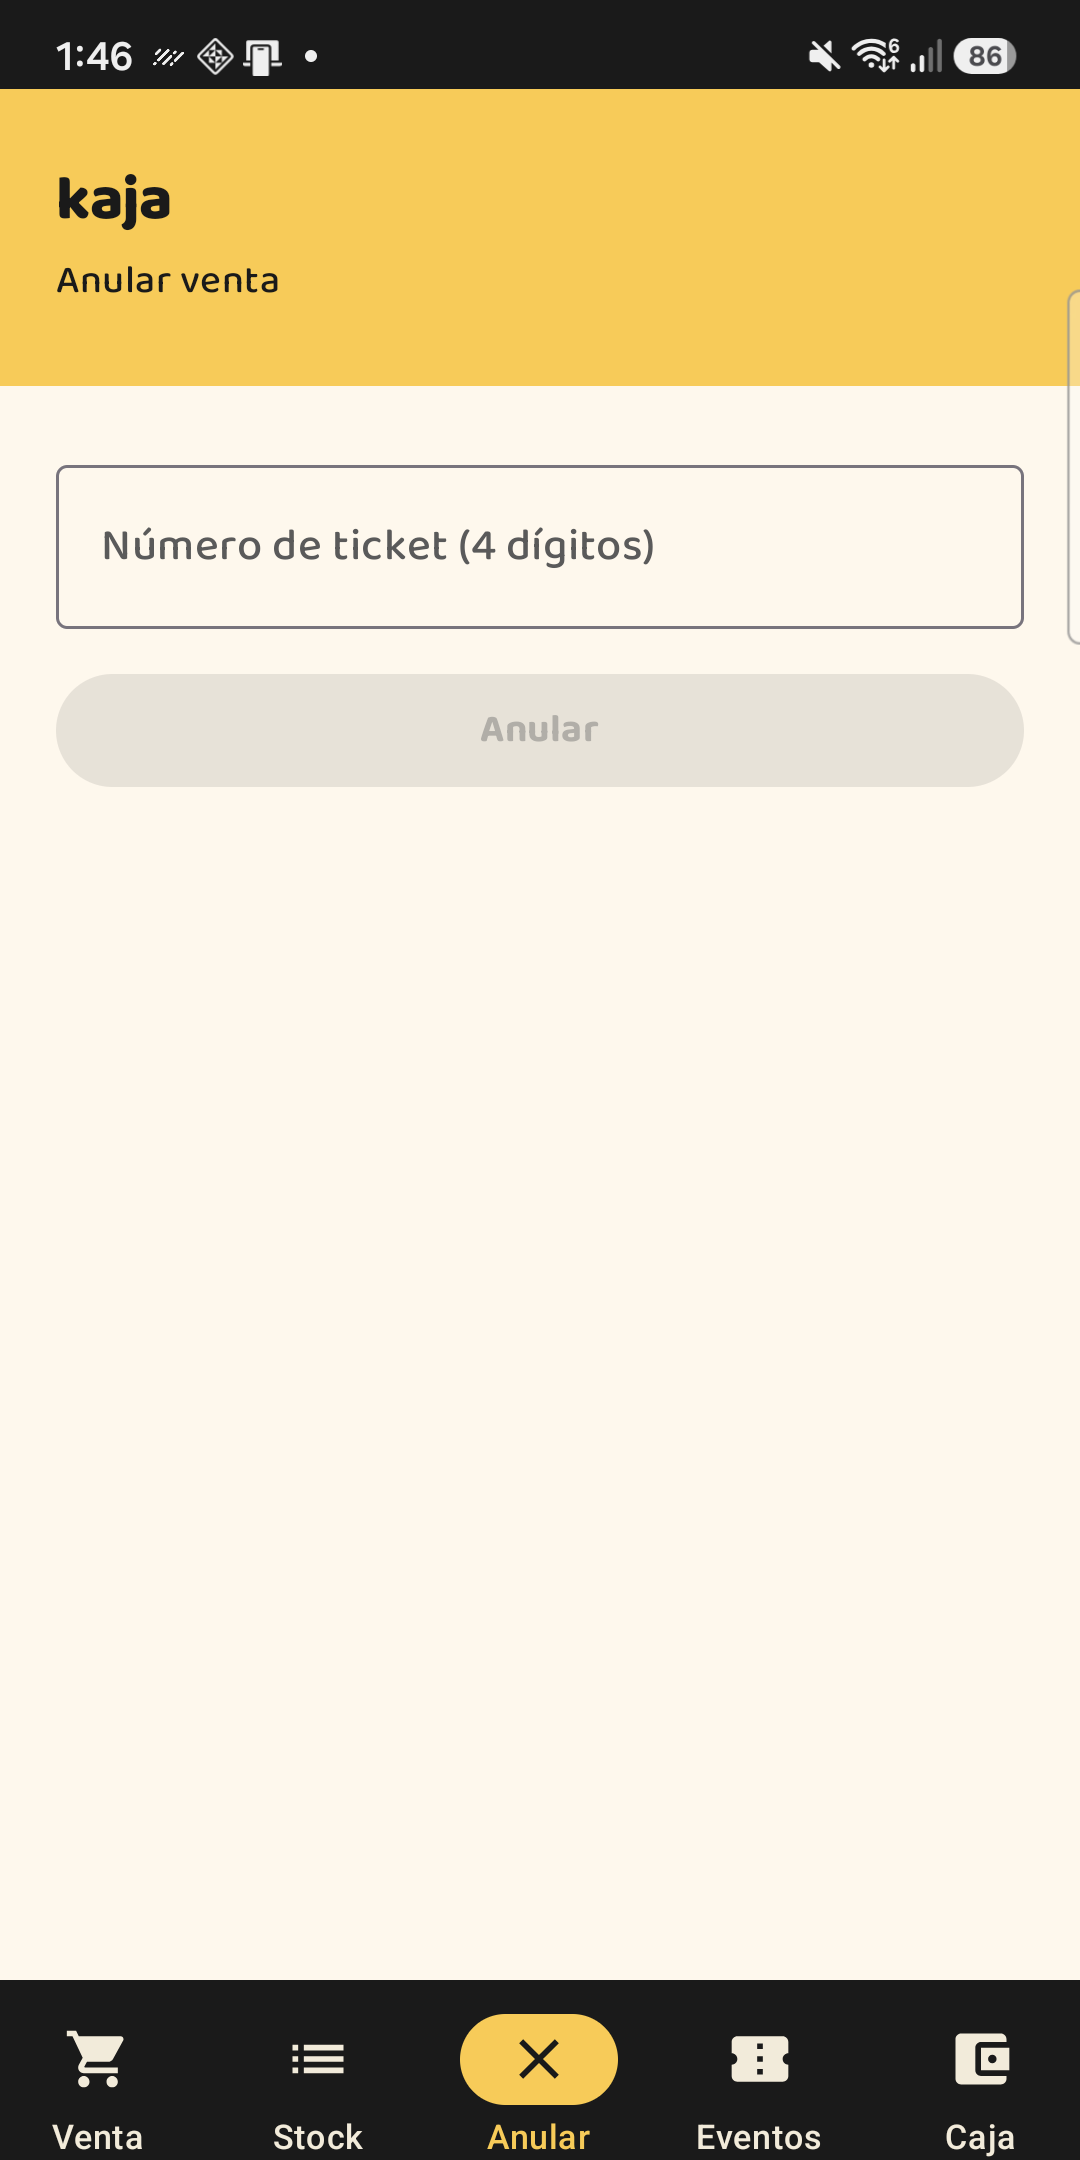
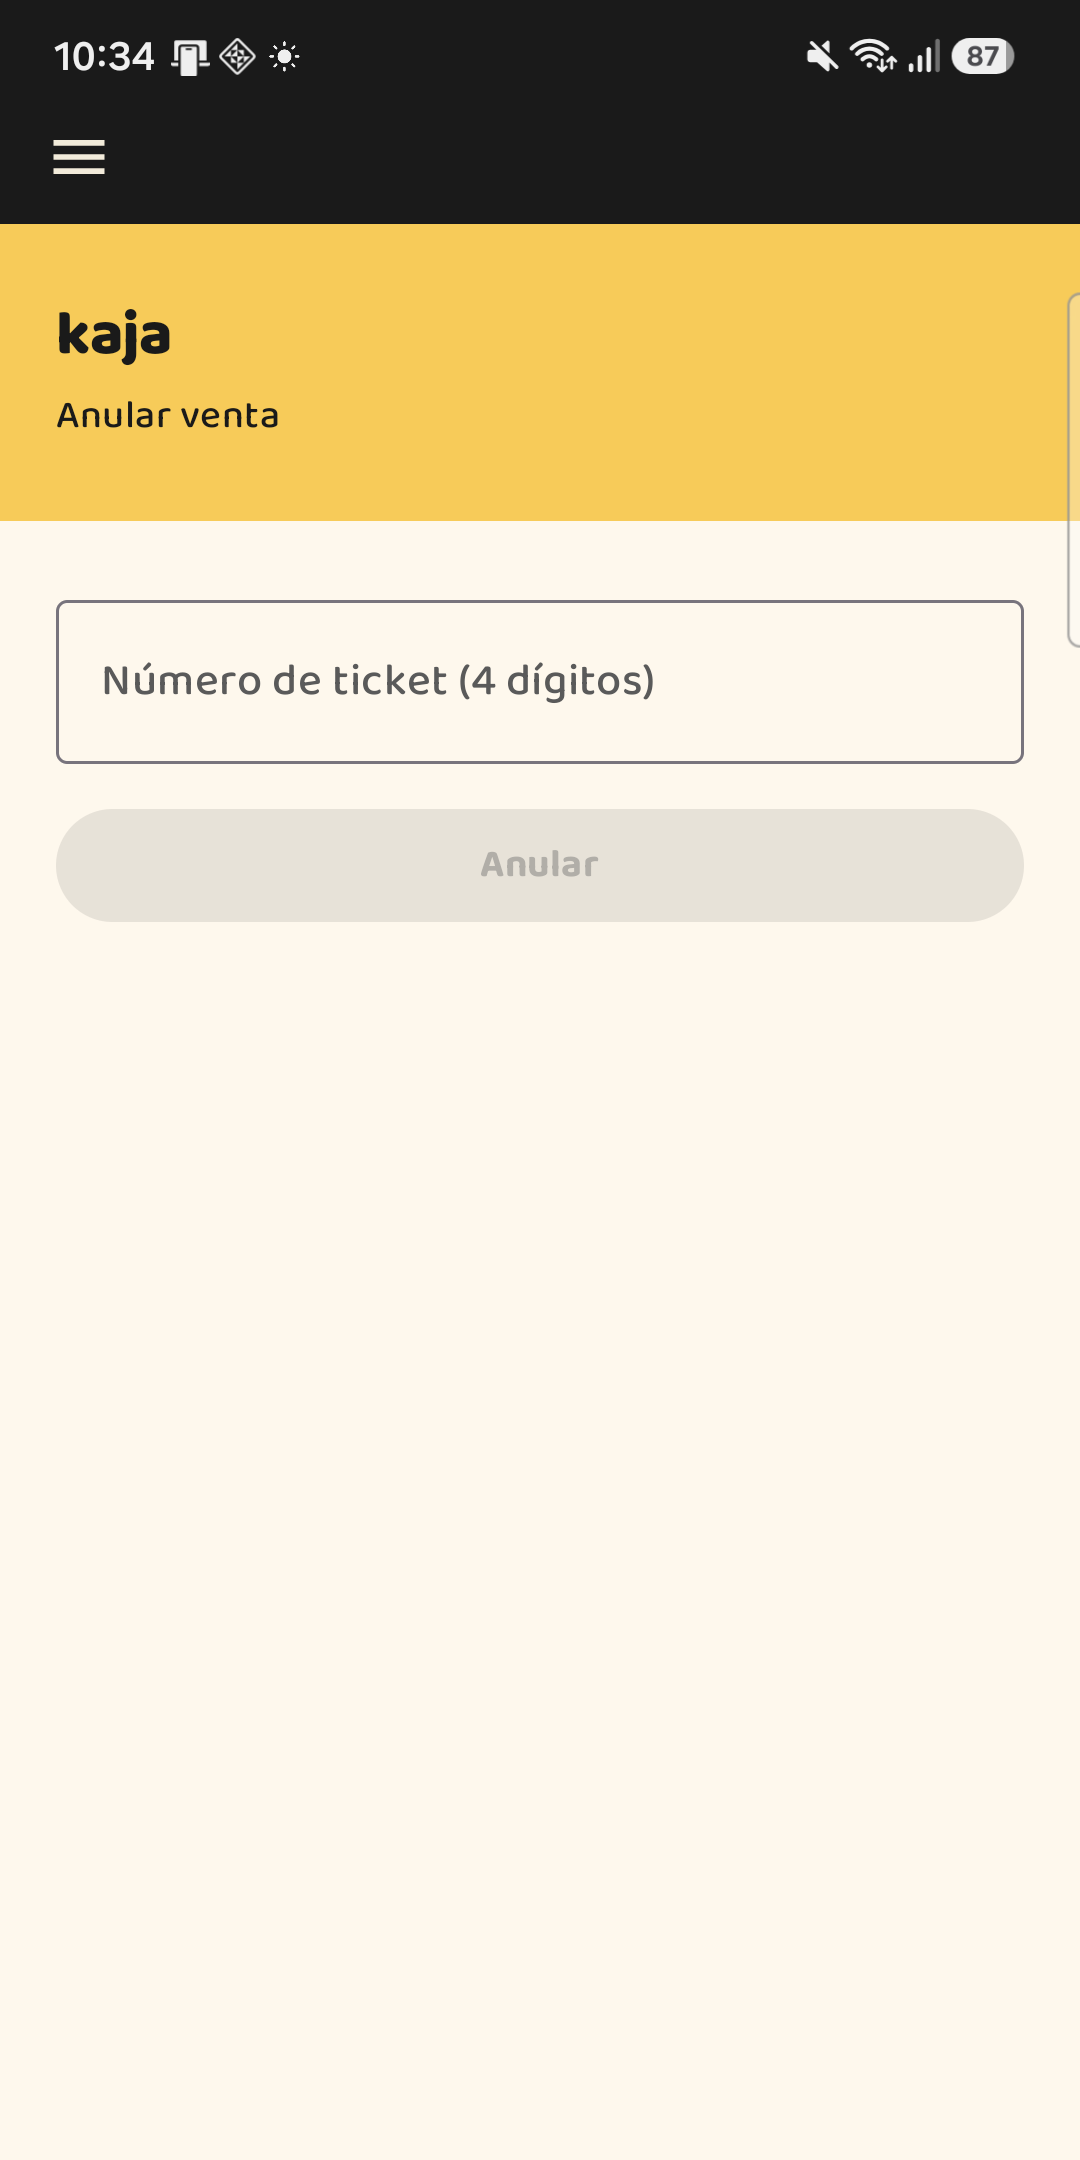
Actualiza la landing con temas de marca, modo oscuro, menú lateral y alertas de caja
Capturas nuevas de la app (menú lateral, venta clara y oscura, configuración
con datos genéricos) y de kaja-bo (Temas de kaja, Caja con diferencias).
Nueva sección Tu marca y ficha técnica al día.

diff --git a/index.html b/index.html
@@ -4,7 +4,7 @@
   <meta charset="utf-8">
   <meta name="viewport" content="width=device-width, initial-scale=1">
   <title>kaja — Punto de venta y consola para tu negocio</title>
-  <meta name="description" content="kaja es el punto de venta Android para tu mostrador y kaja-bo la consola web para controlarlo todo: cobrá en segundos, con efectivo, Fpinpad o App2App, y seguí ventas, stock, cajeros y sucursales en vivo.">
+  <meta name="description" content="kaja es el punto de venta Android para tu mostrador y kaja-bo la consola web para controlarlo todo: cobrá en segundos, con efectivo, Fpinpad o App2App, con tu logo y tus colores, y seguí ventas, stock, cajeros y sucursales en vivo.">
   <link rel="icon" href="assets/icon.png">
   <link rel="stylesheet" href="https://fonts.googleapis.com/css2?family=Baloo+2:wght@500;600;700;800&display=swap">
   <style>
@@ -298,6 +298,7 @@
       <a href="#por-que">Por qué kaja</a>
       <a href="#app">La app</a>
       <a href="#consola">La consola</a>
+      <a href="#marca">Tu marca</a>
       <a href="#eventos">Eventos</a>
       <a href="#ficha">Ficha técnica</a>
     </nav>
@@ -326,6 +327,7 @@
         <li><svg width="18" height="18" viewBox="0 0 24 24" fill="none" stroke="currentColor" stroke-width="3" stroke-linecap="round" stroke-linejoin="round"><path d="m5 12 5 5L20 7"/></svg>Efectivo, Fpinpad y App2App</li>
         <li><svg width="18" height="18" viewBox="0 0 24 24" fill="none" stroke="currentColor" stroke-width="3" stroke-linecap="round" stroke-linejoin="round"><path d="m5 12 5 5L20 7"/></svg>Ticket automático</li>
         <li><svg width="18" height="18" viewBox="0 0 24 24" fill="none" stroke="currentColor" stroke-width="3" stroke-linecap="round" stroke-linejoin="round"><path d="m5 12 5 5L20 7"/></svg>Multi-sucursal</li>
+        <li><svg width="18" height="18" viewBox="0 0 24 24" fill="none" stroke="currentColor" stroke-width="3" stroke-linecap="round" stroke-linejoin="round"><path d="m5 12 5 5L20 7"/></svg>Con tu marca y colores</li>
       </ul>
     </div>
     <div class="hero-visual" aria-hidden="true">
@@ -350,7 +352,7 @@
 <div class="stats">
   <div class="wrap stats-grid">
     <div class="stat"><b>3</b><span>formas de cobrar: efectivo, Fpinpad por red y App2App</span></div>
-    <div class="stat"><b>12</b><span>módulos en la consola para operar el negocio entero</span></div>
+    <div class="stat"><b>13</b><span>módulos en la consola para operar el negocio entero</span></div>
     <div class="stat"><b>10 s</b><span>entre cada actualización del panel de ventas</span></div>
     <div class="stat"><b>15 min</b><span>máximo para que stock, catálogo y eventos se sincronicen solos</span></div>
     <div class="stat"><b>8 h</b><span>de sesión por cajero, con aviso y extensión sin perder el carrito</span></div>
@@ -371,7 +373,8 @@
         <h3>Facilidad</h3>
         <p class="claim">Sin manual, sin capacitaciones eternas.</p>
         <ul>
-          <li>Botones grandes y todo a la vista: Venta, Stock, Anular, Eventos y Caja.</li>
+          <li>Botones grandes y un menú lateral con Venta, Anular, Caja, Stock y Eventos.</li>
+          <li>Modo claro u oscuro, a gusto de cada mostrador.</li>
           <li>Terminal, System ID y cobro se configuran una sola vez.</li>
           <li>Productos y precios se cargan en el panel y llegan solos a cada caja.</li>
           <li>La consola se usa desde cualquier navegador, también en el celular.</li>
@@ -408,6 +411,7 @@
           <li>Cobrá desde la caja o desde el panel web.</li>
           <li>Una caja o muchas, agrupadas por sucursal.</li>
           <li>Productos, entradas para eventos y facturación electrónica.</li>
+          <li>Con tu logo, tus colores y tu ticket, sin tocar cada caja.</li>
         </ul>
       </article>
     </div>
@@ -437,7 +441,7 @@
       </li>
       <li class="sticker step">
         <h3>Sale el ticket</h3>
-        <p>Impresión automática con logo. Con facturación electrónica, lleva QR y código de seguridad del comprobante.</p>
+        <p>Impresión automática con tu logo, encabezado y despedida; en pantalla lo ves salir. Con facturación electrónica, lleva QR y código de seguridad del comprobante.</p>
       </li>
     </ol>
     <div class="sticker safety">
@@ -458,7 +462,7 @@
           <h2 style="margin:0">kaja, la caja de tu mostrador.</h2>
         </div>
       </div>
-      <p>Android nativa, pensada para terminales de cobro con impresora y lector integrados. Cinco pestañas —Venta, Stock, Anular, Eventos y Caja—, todo a un toque.</p>
+      <p>Android nativa, pensada para terminales de cobro con impresora y lector integrados. Un menú lateral con Venta, Anular, Caja, Stock, Eventos y Configuración, todo a un toque, en modo claro u oscuro.</p>
     </div>
 
     <div class="phones">
@@ -471,6 +475,11 @@
         <div class="phone"><img src="assets/app-venta.png" alt="Pantalla de venta con carrito y botón Cobrar"></div>
         <h4>Venta</h4>
         <p>Productos, carrito con +/−, escaneo y botón Cobrar siempre a mano.</p>
+      </figure>
+      <figure class="phone-card" style="margin:0">
+        <div class="phone"><img src="assets/app-menu.png" alt="Menú lateral de kaja agrupado en Operación, Catálogo, Eventos y Ajustes"></div>
+        <h4>Menú</h4>
+        <p>Todas las pantallas agrupadas en un menú lateral: Operación, Catálogo, Eventos y Ajustes.</p>
       </figure>
       <figure class="phone-card" style="margin:0">
         <div class="phone"><img src="assets/app-buscador.png" alt="Buscador manual de productos"></div>
@@ -498,9 +507,9 @@
         <p>Abrís con un monto inicial y cerrás contando el efectivo: kaja compara lo contado con lo esperado.</p>
       </figure>
       <figure class="phone-card" style="margin:0">
-        <div class="phone"><img src="assets/app-configuracion.png" alt="Configuración de kaja: terminal, medio de cobro y kaja-bo"></div>
+        <div class="phone"><img src="assets/app-configuracion.png" alt="Configuración de kaja: tema oscuro, terminal, medio de cobro y kaja-bo"></div>
         <h4>Configuración</h4>
-        <p>Terminal, System ID, Fpinpad o App2App y la conexión con kaja-bo, una sola vez. Desde acá también se cierra el lote.</p>
+        <p>Tema oscuro, terminal, System ID, Fpinpad o App2App y la conexión con kaja-bo. Si salís sin guardar, te avisa.</p>
       </figure>
     </div>
 
@@ -538,7 +547,7 @@
         <div class="icon"><svg width="22" height="22" viewBox="0 0 24 24" fill="none" stroke="#1A1A1A" stroke-width="2" stroke-linecap="round" stroke-linejoin="round"><path d="M6 9V3h12v6"/><rect x="3" y="9" width="18" height="8" rx="2"/><path d="M6 14h12v7H6z"/></svg></div>
         <div>
           <h4>Impresora integrada</h4>
-          <p>El ticket sale en la impresora de la terminal con el logo de kaja, apenas se aprueba el pago.</p>
+          <p>El ticket sale en la impresora de la terminal con tu logo, apenas se aprueba el pago. Mientras imprime, lo ves subir en la pantalla como si saliera el papel.</p>
         </div>
       </div>
       <div class="sticker feature">
@@ -569,6 +578,14 @@
           <p>Si la app se cierra o se corta la conexión a mitad de un cobro, la venta queda pendiente y se resuelve sola consultando el resultado a la procesadora.</p>
         </div>
       </div>
+      <div class="sticker feature">
+        <div class="icon"><svg width="22" height="22" viewBox="0 0 24 24" fill="none" stroke="#1A1A1A" stroke-width="2" stroke-linecap="round" stroke-linejoin="round"><path d="M12 3a9 9 0 1 0 9 9 7 7 0 0 1-9-9Z"/></svg></div>
+        <div>
+          <h4>Modo oscuro</h4>
+          <p>Un switch en Configuración y la caja pasa a oscuro: descansa la vista en locales con poca luz.</p>
+          <img src="assets/app-venta-oscuro.png" alt="Pantalla de venta de kaja en modo oscuro" style="max-width:160px">
+        </div>
+      </div>
     </div>
   </div>
 </section>
@@ -593,7 +610,7 @@
       </figure>
       <figure class="console-shot">
         <div class="browser"><div class="browser-bar"><i></i><i></i><i></i><span>kaja-bo · Caja</span></div><img src="assets/consola-caja.png" alt="Aperturas y cierres de caja por terminal con monto contado, esperado y diferencia"></div>
-        <figcaption><h4>Caja <span class="pill">Control</span></h4><p>Aperturas y cierres de cada terminal con monto inicial, contado, esperado y diferencia. Marca las cajas que quedaron abiertas hace días.</p></figcaption>
+        <figcaption><h4>Caja <span class="pill">Control</span></h4><p>Aperturas y cierres de cada terminal con monto inicial, contado, esperado y diferencia. Avisa de los cierres con diferencia y de las cajas abiertas hace días; cada diferencia se marca como revisada.</p></figcaption>
       </figure>
       <figure class="console-shot">
         <div class="browser"><div class="browser-bar"><i></i><i></i><i></i><span>kaja-bo · Productos</span></div><img src="assets/consola-productos.png" alt="Catálogo de productos, precios y códigos de barras en el panel de kaja-bo"></div>
@@ -619,12 +636,47 @@
         <div class="browser"><div class="browser-bar"><i></i><i></i><i></i><span>kaja-bo · Reportes</span></div><img src="assets/consola-reportes.png" alt="Reporte de ventas y crecimiento con ingresos, ticket promedio y tasa de aprobación"></div>
         <figcaption><h4>Reportes <span class="pill">Control</span></h4><p>Ventas y crecimiento, catálogo, sucursales y cajeros, operativo y eventos: ingresos por día, ticket promedio, tasa de aprobación y efectivo contra tarjeta.</p></figcaption>
       </figure>
+      <figure class="console-shot">
+        <div class="browser"><div class="browser-bar"><i></i><i></i><i></i><span>kaja-bo · Temas de kaja</span></div><img src="assets/consola-temas.png" alt="Editor de temas de kaja-bo con colores, texto de bienvenida y la vista previa en un celular"></div>
+        <figcaption><h4>Temas de kaja <span class="pill">Versatilidad</span></h4><p>Tu logo y tus colores en cada caja: los diseñás con vista previa en vivo y los mandás a las terminales que elijas.</p></figcaption>
+      </figure>
     </div>
 
     <div class="modules">
       <div class="sticker module"><h4>Terminales</h4><p>Ventas de hoy y última venta por caja, y qué terminales reportaron en el día.</p></div>
-      <div class="sticker module"><h4>Eventos <small>Nuevo</small></h4><p>Eventos con fecha, precio y cupo; venta de entradas con QR por mail — ver más abajo.</p></div>
+      <div class="sticker module"><h4>Clásico u oscuro <small>Nuevo</small></h4><p>La consola también tiene dos estilos visuales; se cambia con un toque desde el encabezado.</p></div>
+      <div class="sticker module"><h4>Eventos</h4><p>Eventos con fecha, precio y cupo; venta de entradas con QR por mail — ver más abajo.</p></div>
       <div class="sticker module"><h4>UCFE <small>Próximamente</small></h4><p>Facturación electrónica e-Ticket: datos del comercio y del emisor, con modo prueba — ver más abajo.</p></div>
+    </div>
+  </div>
+</section>
+
+<!-- ================= MARCA ================= -->
+<section class="flow" id="marca">
+  <div class="wrap">
+    <div class="section-head">
+      <span class="pill pill-white">Nuevo · Tu marca</span>
+      <h2>Cada caja, con tu logo y tus colores.</h2>
+      <p>Diseñás el tema una vez en kaja-bo y las terminales lo bajan solas: pantalla, botones y ticket impreso con la cara de tu negocio.</p>
+    </div>
+    <div class="duo">
+      <article class="sticker banner">
+        <h3>De la consola al mostrador</h3>
+        <div class="ticket-steps">
+          <div class="ticket-step"><b>1</b><span>Elegís logo, colores para modo claro y oscuro, el botón principal y el saludo de la pantalla de Venta.</span></div>
+          <div class="ticket-step"><b>2</b><span>Escribís el encabezado del ticket (nombre, RUT, dirección) y la despedida, y ves cómo sale impreso.</span></div>
+          <div class="ticket-step"><b>3</b><span>Lo mandás a las terminales que quieras, o lo dejás como predeterminado para todas.</span></div>
+          <div class="ticket-step"><b>4</b><span>Cada caja lo aplica en su próxima sincronización y kaja-bo te muestra qué versión tiene cada una.</span></div>
+        </div>
+        <p>Podés guardar varios temas —uno por sucursal, uno para una temporada— y cambiarlos cuando quieras, sin tocar las terminales.</p>
+      </article>
+      <article class="sticker banner">
+        <div class="browser">
+          <div class="browser-bar"><i></i><i></i><i></i><span>kaja-bo · Temas de kaja</span></div>
+          <img src="assets/consola-temas.png" alt="Editor de temas en kaja-bo: colores de marca, texto de bienvenida y vista previa del celular">
+        </div>
+        <p>El editor muestra en vivo el celular, el menú y el ticket con tu tema, en claro y en oscuro, antes de mandarlo.</p>
+      </article>
     </div>
   </div>
 </section>
@@ -683,26 +735,28 @@
         <dl>
           <div><dt>Plataforma</dt><dd>Android nativa (Kotlin + Jetpack Compose)</dd></div>
           <div><dt>Hardware</dt><dd>Terminales Android con impresora y lector integrados (Ingenico/Landi USDK). Escaneo por cámara en cualquier Android.</dd></div>
-          <div><dt>Pantallas</dt><dd>Login · Venta · Stock · Anular · Eventos · Caja · Configuración</dd></div>
+          <div><dt>Pantallas</dt><dd>Login · Venta · Anular · Caja · Stock · Eventos · Configuración, desde un menú lateral</dd></div>
+          <div><dt>Apariencia</dt><dd>Modo claro u oscuro · Tema de marca bajado de kaja-bo: logo, 9 colores, botón principal y texto de bienvenida</dd></div>
           <div><dt>Medios de cobro</dt><dd>Efectivo con vuelto · Tarjeta vía Fpinpad por red (Fiserv ITD) · App2App</dd></div>
           <div><dt>Operaciones</dt><dd>Anulación por ticket con devolución · Apertura y cierre de caja con arqueo · Cierre de lote individual o de todos · Venta y validación de entradas</dd></div>
-          <div><dt>Ticket</dt><dd>Impresión automática con logo; QR y código de seguridad del CFE</dd></div>
+          <div><dt>Ticket</dt><dd>Impresión automática con logo, encabezado (hasta 3 líneas) y despedida del tema · QR y código de seguridad del CFE · Animación en pantalla mientras imprime</dd></div>
           <div><dt>Datos locales</dt><dd>Catálogo, stock, eventos y ventas guardados en el equipo</dd></div>
-          <div><dt>Sincronización</dt><dd>Ventas al instante con reintento automático · Stock, catálogo y eventos cada 15 min o manual</dd></div>
+          <div><dt>Sincronización</dt><dd>Ventas al instante con reintento automático · Stock, catálogo, eventos y tema cada 15 min o manual</dd></div>
           <div><dt>Sesión</dt><dd>Usuario por cajero, con alta por solicitud aprobada por el administrador · Correo verificado con código de 8 dígitos · Recuperación de contraseña por link que vence a los 30 min · 8 h con aviso y extensión · Cierre de lote al salir</dd></div>
         </dl>
       </div>
       <div class="spec-col">
         <h3>kaja-bo · Consola</h3>
         <dl>
-          <div><dt>Acceso</dt><dd>Web, desde cualquier navegador; diseño adaptado a celular</dd></div>
+          <div><dt>Acceso</dt><dd>Web, desde cualquier navegador; diseño adaptado a celular · Estilo clásico u oscuro</dd></div>
           <div><dt>Roles</dt><dd>Administrador con acceso total · Cajero limitado a Cobrar y Anular</dd></div>
-          <div><dt>Módulos</dt><dd>Ventas · Cobrar · Caja · Terminales · Stock · Productos · Sucursales · Cajeros · Eventos · UCFE · Conciliación · Reportes</dd></div>
+          <div><dt>Módulos</dt><dd>Ventas · Cobrar · Caja · Terminales · Stock · Productos · Sucursales · Cajeros · Eventos · UCFE · Conciliación · Reportes · Temas de kaja</dd></div>
           <div><dt>Indicadores</dt><dd>Total vendido · Aprobadas · Rechazadas · Cantidad de ventas · Promedio diario · Gráfico por día</dd></div>
           <div><dt>Filtros</dt><dd>Terminal · Sucursal · Rango de fechas · Estado (aprobada, rechazada, timeout) · Buscador global</dd></div>
           <div><dt>Detalle por venta</dt><dd>Fecha, terminal, ticket, monto, estado, medio de pago y artículos</dd></div>
           <div><dt>Actualización</dt><dd>Automática cada 10 segundos</dd></div>
-          <div><dt>Caja</dt><dd>Aperturas y cierres por terminal con contado, esperado y diferencia · Alerta de cajas abiertas hace días</dd></div>
+          <div><dt>Caja</dt><dd>Aperturas y cierres por terminal con contado, esperado y diferencia · Alertas de cierres con diferencia y de cajas abiertas hace días · Diferencias marcables como revisadas</dd></div>
+          <div><dt>Temas</dt><dd>Varios temas guardados · Editor con vista previa del celular y del ticket · Envío a las terminales elegidas o tema predeterminado · Versión aplicada por terminal</dd></div>
           <div><dt>Conciliación</dt><dd>Contra la procesadora (ITD): conflictos sin revisar, lote actual e histórico de cierres · Solo informa, no corrige</dd></div>
           <div><dt>Reportes</dt><dd>Ventas y crecimiento · Catálogo · Sucursales y cajeros · Operativo · Eventos</dd></div>
           <div><dt>Cajeros</dt><dd>Altas, bajas, aprobación de solicitudes, correo verificado y reseteo de contraseña</dd></div>
